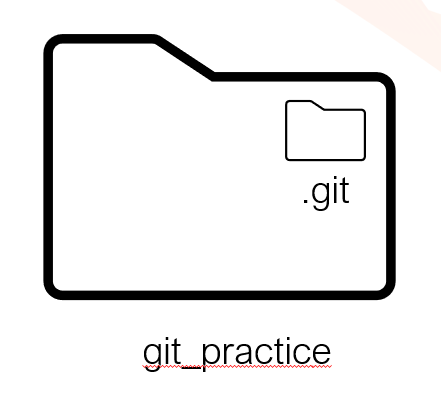
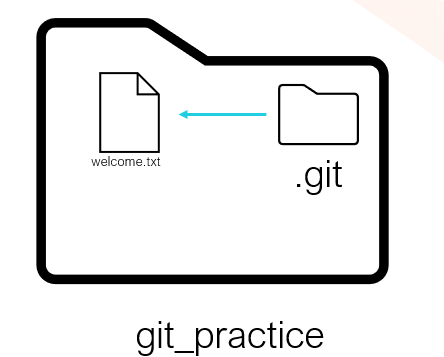
staging area and commit

Changed region(s): [[0.059, 0.0308, 0.9138, 0.8011], [0.2948, 0.8319, 0.7664, 1.0]]

diff --git a/README.md b/README.md
@@ -49,14 +49,68 @@ nothing to commit (create/copy files and use "git add" to track)
 
 ```
 
-## What is git_practice?
+### What is git_practice?
 
 - It was just a folder/directory on your machine
 
 - It is now git tracked
 
-- You can call it the working directory or local repository (local repo)
+- You can call it the `working directory` or `local repository (local repo)`
 
 - Changes you make inside git_practise folder are tracked by git
 
-![alt text](image.png)
+![alt text](image-1.png)
+
+### Create a new file inside git_practice called greetings.txt
+
+```
+touch greetings.txt
+ls
+```
+
+You shouldsee that git_practice folder now contains a plain text file called greetings.txt
+
+![alt text](image-2.png)
+
+### Type your first greeting in greetings.txt
+
+![alt text](image-3.png)
+
+### What is an untracked file?
+
+In your terminal, check the status of the git repository
+
+```
+git status
+
+```
+
+You should see the status of your repository, which will include your greetings.txt file showing up as "untracked"
+
+![alt text](image-4.png)
+
+In Git, an untracked file is a file that exists in your working directory but is not yet part of your repository. This means Git is not tracking changes to it.
+
+## git add
+
+To start tracking greetings.txt, you use the `git add` command, which stages the file, preparing it to be included in the next commit.
+
+```
+git add greetings.txt
+git status
+```
+
+File is added to the staging area.
+
+![alt text](image-5.png)
+
+### What is the Staging Area?
+
+The staging area in Git is a space where you can organize and review changes before committing them to the repository. It allows you to selectively stage specific changes, providing greater control over what gets included in your next commit.
+
+## git commit
+
+```
+git commit -m "initial commit, added some text into greetings"
+
+```
